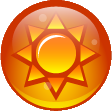
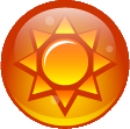
Player Fine Tune & new Grid
Finished some fine tune in the player movement animation and shooting limitations

Created a new Grid class for storing all the pieces in the game.
Also started drawing those in the map with random types of pieces creation

diff --git a/src/ts/Scenes/GameScene.ts b/src/ts/Scenes/GameScene.ts
@@ -4,17 +4,21 @@ import Player from '../Game/Player'
 import Piece from '../Game/Piece'
 
 import { ARROW_IMAGE, BACKGROUND, GAMEOVER_BOARD, HALF_SCREEN, PIECE, WALL } from '../Utils/gameValues';
-import { GAME_STATE } from '../game.interfaces';
+import { GAME_STATE, SIDE } from '../game.interfaces';
+import Grid from '../Game/Grid';
 
 export let gameScene: Phaser.Scene;
 
 export let player: Player;
+export let grid: Grid;
 export let gameManager: GameManager;
 
 export let wallGroup: Phaser.GameObjects.Group;
 export let gameOverGroup: Phaser.GameObjects.Group;
 
 export let aimArrow: Phaser.GameObjects.Image;
+
+let keys;
 
 export default class GameScene extends Phaser.Scene {
 
@@ -39,7 +43,7 @@ export default class GameScene extends Phaser.Scene {
         this.load.image('buttonReset', 'assets/buttonReset.png')
         this.load.image('buttonMenu', 'assets/buttonMenu.png')
 
-        this.load.spritesheet('bubble_1', 'assets/bubble_1.png', {
+        this.load.spritesheet('bubbles', 'assets/bubbles.png', {
             frameWidth: PIECE.WIDTH,
             frameHeight: PIECE.HEIGHT
         });
@@ -49,11 +53,16 @@ export default class GameScene extends Phaser.Scene {
     }
 
     create() {
+        keys = this.input.keyboard.addKeys({
+            left: 'Q',
+            right: 'E'
+        });
         this.startGame();
     }
 
     update() {
         gameManager.update();
+        this.setKeys()
     }
 
     private startGame() {
@@ -62,18 +71,14 @@ export default class GameScene extends Phaser.Scene {
         this.createFrameAndWalls();
 
         gameManager = new GameManager(graphics);
+        grid = new Grid();
         player = new Player(gameManager);
-
-        this.setKeys();
-
-        // setTimeout( () => this.gameOver(), 2000)
     }
 
     private resetGame() {
         myGraphics.clear();
         aimArrow.angle = ARROW_IMAGE.INITIAL_ANGLE;
         gameOverGroup.clear(true, true);
-        this.setKeys();
         gameManager.resetAimLine()
         gameManager.setCurrentGameState(GAME_STATE.RUNNING);
     }
@@ -102,8 +107,8 @@ export default class GameScene extends Phaser.Scene {
         this.add.image(0, 0, 'background').setOrigin(0, 0);
         this.add.rectangle(0, 0, BACKGROUND.WIDTH, BACKGROUND.HEIGHT, 
             parseInt(this.bgColor), 0.3).setOrigin(0,0);
-        aimArrow = this.add.image(HALF_SCREEN.WIDTH - ARROW_IMAGE.WIDTH/2,
-            BACKGROUND.HEIGHT - 100, 'aimArrow').setOrigin(0, 0);
+        aimArrow = this.add.image(HALF_SCREEN.WIDTH,
+            BACKGROUND.HEIGHT - 100, 'aimArrow').setOrigin(0, 0.5);
         aimArrow.angle = ARROW_IMAGE.INITIAL_ANGLE;
         this.add.image(0, 0, 'frame').setOrigin(0, 0);
         this.leftWall = this.add.rectangle(0, 0, WALL.WIDTH, BACKGROUND.HEIGHT).setOrigin(0,0);
@@ -117,8 +122,12 @@ export default class GameScene extends Phaser.Scene {
 
     private setKeys() {
         if(gameManager.getCurrentGameState() === GAME_STATE.RUNNING) {
-            this.input.keyboard.on('keydown-Q', () => player.move('left'));
-            this.input.keyboard.on('keydown-E', () => player.move('right'));
+
+            if (this.input.keyboard.checkDown(keys.left)) {
+                player.move(SIDE.LEFT)
+            } else if (this.input.keyboard.checkDown(keys.right)){
+                player.move(SIDE.RIGHT)
+            }
             this.input.keyboard.on('keydown-SPACE', () => player.shootPiece());
         }
     }

diff --git a/src/ts/Game/Piece.ts b/src/ts/Game/Piece.ts
@@ -1,17 +1,20 @@
-import { Position } from "../game.interfaces";
+import { BALL_TYPES as BALL_COLORS, Position } from "../game.interfaces";
 import { gameScene, wallGroup, player } from "../Scenes/GameScene"
 import { AVERAGE_LINE_SIZE, BACKGROUND, BALL_SPEED, HALF_SCREEN, PIECE } from "../Utils/gameValues";
-import { applyPythagoreanTheorem, makeAnimation } from "../Utils/utils";
+import { applyPythagoreanTheorem, getBallType, makeAnimation, rndNumber } from "../Utils/utils";
 
 export default class Piece extends Phaser.GameObjects.Sprite {
 
     shootingCallback: Function;
+    private color: BALL_COLORS;
 
-    constructor() {
-        super(gameScene, HALF_SCREEN.WIDTH, BACKGROUND.HEIGHT - 100, 'bubble_1', 0)
+    constructor({ x, y }: Position) {
+        let spritePositon = rndNumber(0,7, true)
+        super(gameScene, x, y, 'bubbles', spritePositon)
+        this.color = getBallType(spritePositon)
         gameScene.physics.add.existing(this);
         gameScene.physics.world.enable(this);
-        gameScene.add.existing(this).setDepth(1).setOrigin(0.5, 0.5);
+        gameScene.add.existing(this).setDepth(1).setOrigin(0.5,0.5);
     }
 
     public shoot(secondAimLines: Phaser.Geom.Line[], 
@@ -19,19 +22,20 @@ export default class Piece extends Phaser.GameObjects.Sprite {
         this.shootingCallback = callback;
         const destinyPoint = secondAimLines[0]?.getPointA() || player.getAimLine().getPointB();
         const animSpeed = this.calculateSpeedToDistance(destinyPoint);
-        this.move(destinyPoint, 0, animSpeed);
+        const secondaryLines = [...player.getSecondaryAimLines()];
+        this.move(destinyPoint, 0, animSpeed, secondaryLines);
 
     }
 
-    private move( {x, y}, nextPos, animSpeed) {
+    private move( {x, y}, nextPos, animSpeed, secondaryLines) {
 
         // const xWithMargin = x + (this.x > x ? PIECE.WIDTH/2 : -PIECE.WIDTH/2);
         makeAnimation(this, { x, y }, animSpeed, () => {
-            const nextLine = player.getSecondaryAimLines()[nextPos];
+            const nextLine = secondaryLines[nextPos];
             if(nextLine) {
                 nextPos++
                 const animSpeed = this.calculateSpeedToDistance(nextLine.getPointB());
-                this.move(nextLine.getPointB(), nextPos, animSpeed)
+                this.move(nextLine.getPointB(), nextPos, animSpeed, secondaryLines)
             } else {
                 this.shootingCallback();
                 this.deletePiece()

diff --git a/src/ts/Utils/utils.ts b/src/ts/Utils/utils.ts
@@ -1,7 +1,7 @@
-import { SIDES } from '../game.interfaces';
+import { BALL_TYPES, SIDE } from '../game.interfaces';
 import { myGraphics } from '../Game/GameManager';
 import { gameScene } from '../Scenes/GameScene';
-import { BACKGROUND, PLAYER_POS, RED_COLOR, WALL } from './gameValues';
+import { BACKGROUND, LIMIT_MOV, PLAYER_POS, RED_COLOR, WALL } from './gameValues';
 
 export const makeAnimation = (target: Phaser.GameObjects.Image, { x, y }: {x: number, y: number},
         duration:number, callback?: Function): Phaser.Tweens.Tween =>  {
@@ -28,7 +28,7 @@ export const getPointFromWall = (intersections: Phaser.Geom.Point []) => {
     intersections.forEach((point:Phaser.Geom.Point) => {
         if(point.x === WALL.WIDTH || point.x === (BACKGROUND.WIDTH - WALL.WIDTH)) {
             currentPoint = point;
-            side = point.x === WALL.WIDTH ? SIDES.LEFT : SIDES.RIGHT;
+            side = point.x === WALL.WIDTH ? SIDE.LEFT : SIDE.RIGHT;
             return;
         }
     })
@@ -58,4 +58,40 @@ export const applyPythagoreanTheorem = (x:number , y: number): number => {
     y *= y
     let lineDistance = x + y
     return Math.sqrt(lineDistance )
+}
+
+export const isMovementLimit = (angle, side):boolean => {
+    if (side === SIDE.LEFT && angle <= LIMIT_MOV.LEFT) {
+        return false
+    } else if (side === SIDE.RIGHT && angle >= LIMIT_MOV.RIGHT) {
+        return false
+    } else {
+        return true;
+    }
+}
+
+export function rndNumber(min: number, max: number, round = false): number {
+    if (round) return Math.round(Math.random() * (max - min) + min);
+    return Math.random() * (max - min) + min;
+}
+
+export function getBallType(pos: number): BALL_TYPES {
+    switch(pos) {
+        case 0: 
+            return BALL_TYPES.DARK_ORANGE;
+        case 1: 
+            return BALL_TYPES.RED;
+        case 2: 
+            return BALL_TYPES.GREEN;
+        case 3: 
+            return BALL_TYPES.BLACK;
+        case 4: 
+            return BALL_TYPES.BLUE;
+        case 5: 
+            return BALL_TYPES.ORANGE;
+        case 5: 
+            return BALL_TYPES.PINK;
+        default: 
+            return BALL_TYPES.DARK_ORANGE;
+    }
 }

diff --git a/src/ts/Game/Player.ts b/src/ts/Game/Player.ts
@@ -1,7 +1,9 @@
-import { RAY_SPEED } from "../Utils/gameValues";
+import { BACKGROUND, HALF_SCREEN, PIECE, RAY_SPEED } from "../Utils/gameValues";
 import GameManager, { gameManager } from "./GameManager";
 import { aimArrow } from "../Scenes/GameScene";
 import Piece from "./Piece";
+import { isMovementLimit } from "../Utils/utils";
+import { SIDE } from "../game.interfaces";
 
 export default class Player {
 
@@ -9,11 +11,15 @@ export default class Player {
     private secondaryAimLine: Phaser.Geom.Line[] = [];
     private currentPiece: Piece = null;
     private isShooting = false;
+    private playerPosition = {
+        x: HALF_SCREEN.WIDTH, 
+        y: BACKGROUND.HEIGHT - PIECE.HEIGHT + 10
+    }
 
     constructor(gameManager: GameManager) {
         this.aimLine = gameManager.getAimLine();
 
-        this.currentPiece = new Piece();
+        this.currentPiece = new Piece(this.playerPosition);
     }
 
     public getCurrentPiece(): Piece {
@@ -40,15 +46,17 @@ export default class Player {
         this.secondaryAimLine.splice(index, 1)
     }
 
-    public move(side) {
-        if (side === 'left') { 
-            if(this.aimLine.getPointB().y < this.aimLine.getPointA().y) {
+    public move(side: SIDE) {
+        if (side === SIDE.LEFT) { 
+            if (isMovementLimit(aimArrow.rotation, SIDE.LEFT)) {
                 aimArrow.rotation += -RAY_SPEED;
                 Phaser.Geom.Line.RotateAroundPoint(this.aimLine, this.aimLine.getPointA(), -RAY_SPEED);
             }
         } else {
-            aimArrow.rotation += RAY_SPEED;
-            Phaser.Geom.Line.RotateAroundPoint(this.aimLine, this.aimLine.getPointA(), RAY_SPEED);
+            if (isMovementLimit(aimArrow.rotation, SIDE.RIGHT)) {
+                aimArrow.rotation += RAY_SPEED;
+                Phaser.Geom.Line.RotateAroundPoint(this.aimLine, this.aimLine.getPointA(), RAY_SPEED);
+            }
         }
     }
 
@@ -68,7 +76,7 @@ export default class Player {
     }
 
     private generatePiece() {
-        const newPiece = new Piece();
+        const newPiece = new Piece(this.playerPosition);
         this.setCurrentPiece(newPiece);
     }
 }

diff --git a/src/ts/Game/GameManager.ts b/src/ts/Game/GameManager.ts
@@ -1,6 +1,6 @@
 export let gameManager: GameManager
 
-import { GAME_STATE, SIDES } from '../game.interfaces';
+import { GAME_STATE, SIDE } from '../game.interfaces';
 import GameScene, { player } from '../Scenes/GameScene';
 
 import { BACKGROUND, GREEN_COLOR, HALF_SCREEN, RED_COLOR, WALL } from '../Utils/gameValues';
@@ -82,7 +82,7 @@ export default class GameManager {
                 let intersectionRight  = Phaser.Geom.Intersects.GetLineToRectangle(currentLine, this.rightWall);
                 ({ side, currentPoint } = getPointFromWall(intersectionLeft) || getPointFromWall(intersectionRight) || {})
             } else {
-                const wall = side === SIDES.LEFT ? this.rightWall : this.leftWall;
+                const wall = side === SIDE.LEFT ? this.rightWall : this.leftWall;
                 let intersection  = Phaser.Geom.Intersects.GetLineToRectangle(currentLine, wall);
                 ({ side, currentPoint }  = getPointFromWall(intersection) || {});
             }

diff --git a/src/ts/Game/Grid.ts b/src/ts/Game/Grid.ts
@@ -1,0 +1,23 @@
+import { GRID_LENGTH, PIECE } from '../Utils/gameValues'
+import Piece from './Piece';
+
+export default class Grid {
+
+    currentGrid: Piece[] = [];
+
+    constructor() {
+        this.buildGrid();
+    }
+
+    buildGrid() {
+        for (let i = 0; i < GRID_LENGTH.Y; i++) {
+            for(let j = 0; j < GRID_LENGTH.X_1; j++) {
+                const xMargin = i % 2 === 0 ? 0 : PIECE.WIDTH / 2;
+                const x = xMargin + PIECE.WIDTH * j + PIECE.WIDTH
+                const y = PIECE.HEIGHT * i + PIECE.HEIGHT
+
+                this.currentGrid.push(new Piece({x, y}))
+            }
+        }
+    }
+}

diff --git a/src/ts/Utils/gameValues.ts b/src/ts/Utils/gameValues.ts
@@ -25,8 +25,19 @@ export const WALL =  {
 }
 
 export const PIECE = {
-    WIDTH: 112,
-    HEIGHT: 111
+    WIDTH: 130,
+    HEIGHT: 129
+}
+
+export const LIMIT_MOV = {
+    LEFT: -3.0,
+    RIGHT: -0.1
+}
+
+export const GRID_LENGTH = {
+    Y: 5,
+    X_1: 8,
+    X_2: 7
 }
 
 export const PLAYER_POS = { 
@@ -34,7 +45,7 @@ export const PLAYER_POS = {
     HEIGHT: BACKGROUND.HEIGHT - 100
 }
 
-export const RAY_SPEED = 0.04;
+export const RAY_SPEED = 0.03;
 export const BALL_SPEED = 200;
 export const AVERAGE_LINE_SIZE = HALF_SCREEN.WIDTH;
 

diff --git a/src/ts/game.interfaces.ts b/src/ts/game.interfaces.ts
@@ -5,7 +5,7 @@ export interface Position {
     y: number
 }
 
-export enum SIDES {
+export enum SIDE {
     LEFT,
     RIGHT
 }
@@ -13,4 +13,14 @@ export enum SIDES {
 export enum GAME_STATE {
     RUNNING,
     PAUSE
+}
+
+export enum BALL_TYPES {
+    DARK_ORANGE,
+    RED,
+    GREEN,
+    BLACK,
+    BLUE,
+    ORANGE,
+    PINK
 }

diff --git a/views/homepage.html b/views/homepage.html
@@ -3,7 +3,7 @@
 
 	<head>
 		<meta charset=utf-8>
-		<title>Untitled</title>
+		<title>Puzzle Bubble</title>
 		<link rel="icon" type="image/png" href="/favicon.png"/>
 		<link rel="icon" type="image/png" href="/assets/logo.png"/>
 		<script src="https://ajax.googleapis.com/ajax/libs/jquery/3.5.1/jquery.min.js"></script>

diff --git a/src/ts/App.ts b/src/ts/App.ts
@@ -18,7 +18,7 @@ export const config = {
             // debug: true
         }
     },
-    scene: [MenuScene, GameScene]
+    scene: [GameScene, MenuScene]
 };
 
 export const game = new Phaser.Game(config);

diff --git a/README.md b/README.md
@@ -18,6 +18,10 @@ This class handles the movement and storing of the aim lines,  the shooting of n
 ### Piece ###
 The Piece instance represent each individual piece drawn in the map. Also makes the movement animation between aiming lines when the player shoots it, calculating the speed of the ball movement and giving the necessary margin for the bounce with the walls
 
+### Grid ###
+The Grid is a singleton class created for managing all the pieces besides the player piece. It has an 2 dimensions array of Piece representing the group of pieces displayed on the map, where the x changes depending on the y position, creating a proper map pattern.
+The creation is made by a randomizer of ints to pick a color when instantiating.
+
 ---------------------------------------------------------------
 # Development
 Started the development by investigating how Phaser handles aiming. Since raycasting isn't an option of native Phaser, I decided to implement it via Phaser.Geom, a light way of managing lines as aim lines with rectangles as walls and the related intersections between them. This way, was possible to calculate both points of each aim line from drawing lines and calculate hard angle options with a lot of aim lines.
@@ -27,6 +31,8 @@ Only when I reach that goal I had officialized the development of the game and p
 After I started by focusing on the shooting piece, its moving animation, its deletion when reaching out of screen coords and the generation of a new one. The calculation of the speed of movement changes depending on the trajectory the ball has to travel, with that in mind, I applied the Pythagorean theorem to the subtraction of the destiny and origin point of both axis, having that I just had to multiply its value by itself and add both together and finally finding out the square root to that value. Having that result I just applied the rule of three with constants speeds and average line width to find out the final speed for dynamic lines
 
 Created a menu scene and the logic between scene transistion. After, added the game over menu and applied the game over, start and reset game functions
+
+After some fine-tuning and exception handling of the player movement and shooting, I started developing the map grid as a class and storing a 2D array of pieces for storing every piece on the map. Also added the randomizer of the different types of pieces in a sprite and stored it as an enum, using it on the Piece class.
 
 ---------------------------------------------------------------
 # Sketches & Evolution
